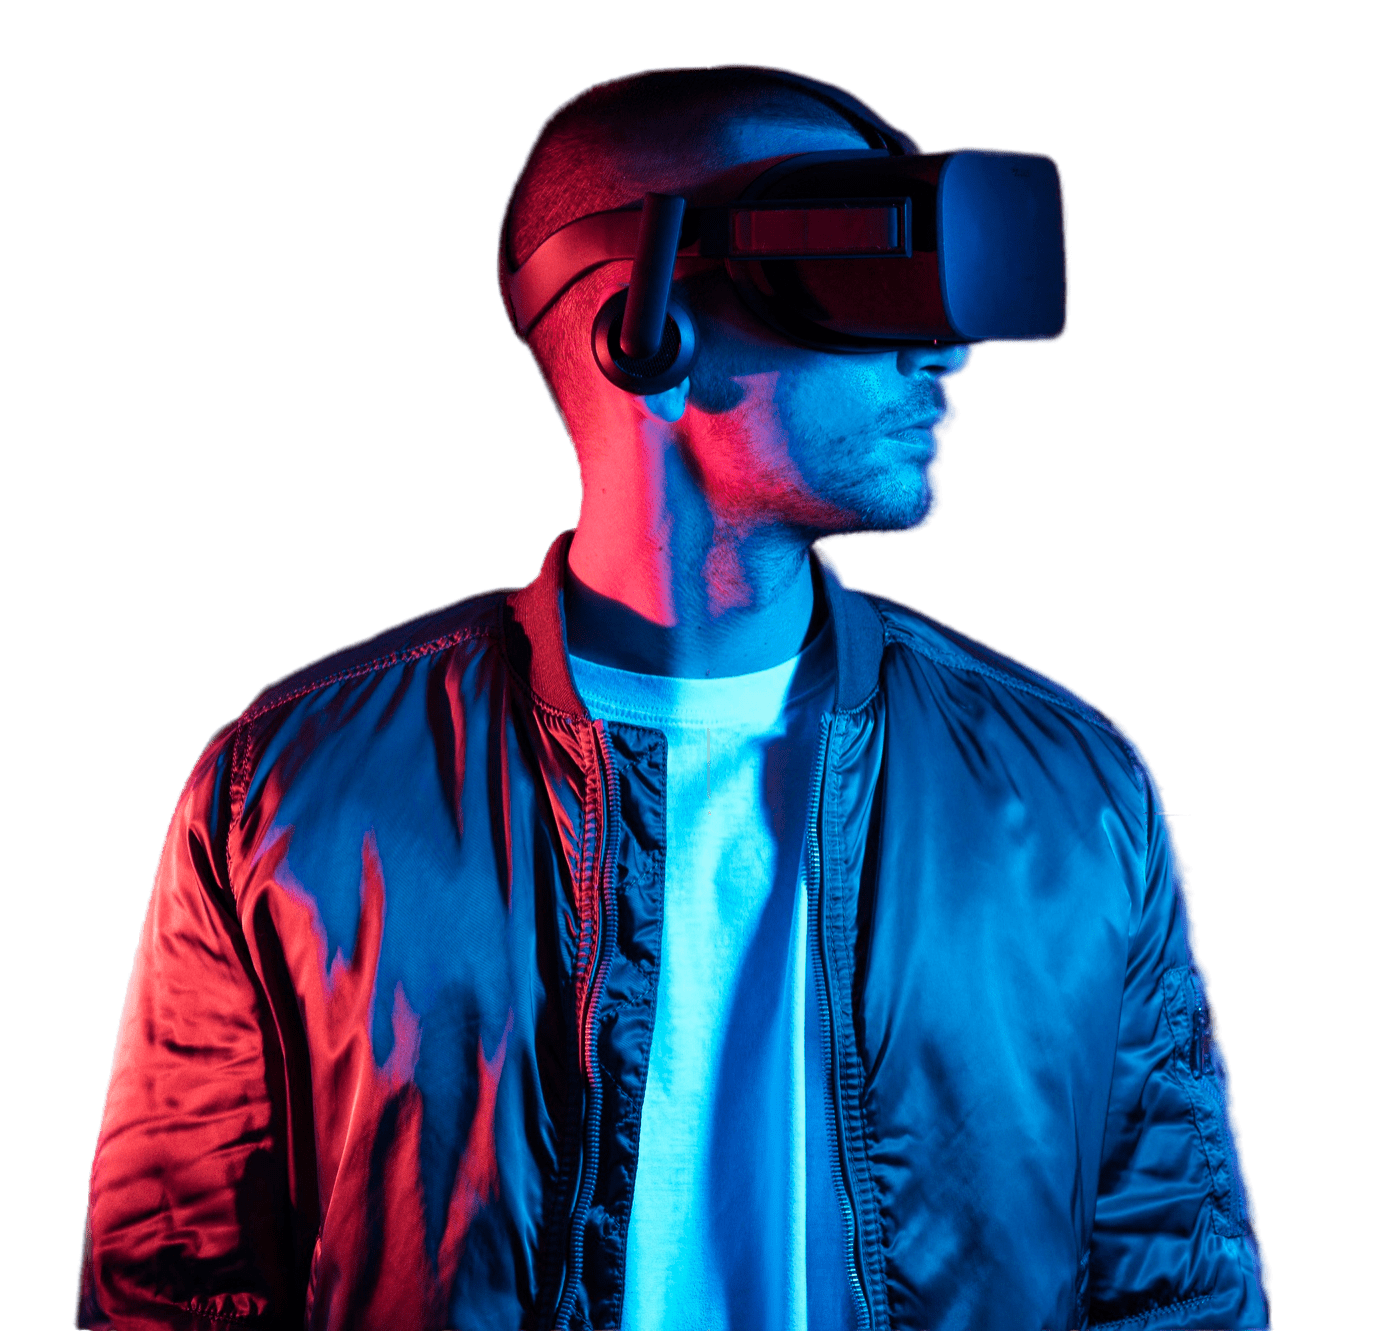
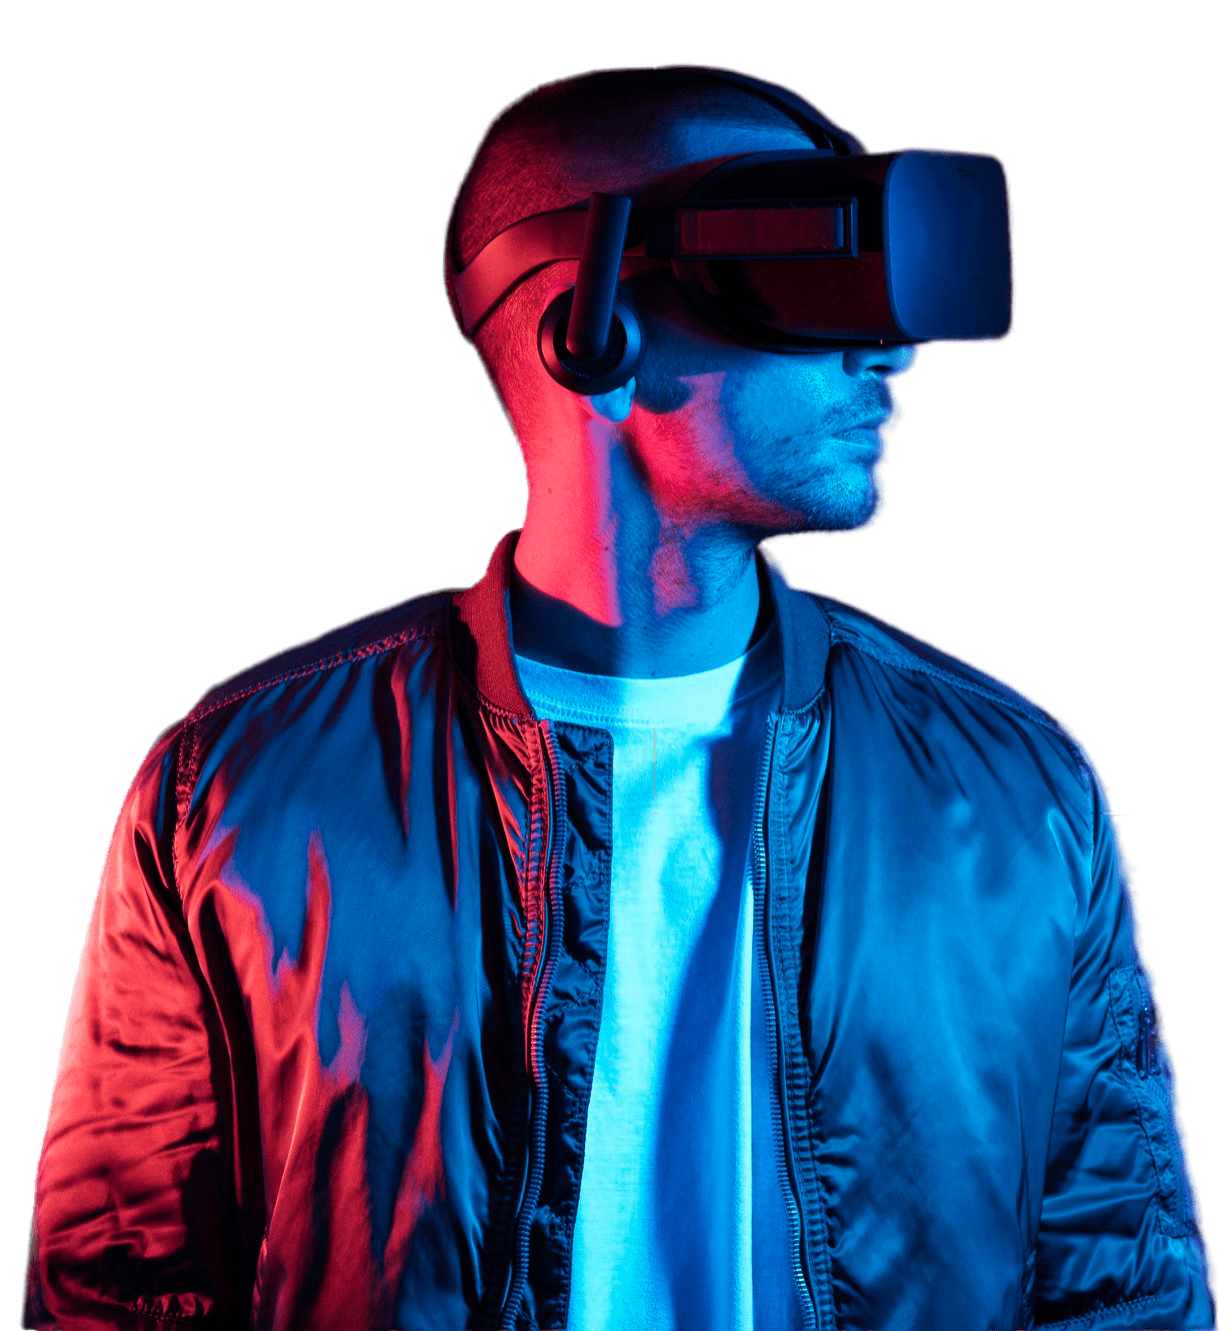
finished project

diff --git a/src/components/Depositions/StyleDepositions.ts b/src/components/Depositions/StyleDepositions.ts
@@ -3,7 +3,7 @@ import { styled } from "styled-components";
 export const StyleDepositions = styled.section`
     display: flex;
     width: 100%;
-    min-height: 110vh;
+    min-height: 100vh;
     align-items: center;
     justify-content: space-between;
     padding: 1rem 5%;
@@ -19,7 +19,7 @@ export const StyleDepositions = styled.section`
 
     .img {
         width: 500px;
-        /* height: 500px; */
+        height: 500px;
         background: ${({ theme }) => theme.colors.primary};
         display: flex;
         align-items: end;
@@ -34,8 +34,6 @@ export const StyleDepositions = styled.section`
 
     @media (max-width: 1060px) {
         .content {
-            width: 500px;
-
             h2 {
                 font-size: 60px;
                 line-height: 60px;
@@ -60,17 +58,17 @@ export const StyleDepositions = styled.section`
             width: 100%;
 
             h2 {
-                font-size: 60px;
                 line-height: 70px;
             }
         }
 
         .img {
             width: 100%;
+            height: auto;
 
             img {
                 border-radius: 0;
-                width: 350px;
+                width: 315px;
             }
         }
     }
@@ -85,8 +83,8 @@ export const StyleDepositions = styled.section`
 
         .img {
             img {
-                /* border-radius: 2.4rem; */
-                width: 210px;
+                /* margin-bottom: 3px; */
+                width: 183px;
             }
         }
     }

diff --git a/src/components/Depositions/Carousel/SlideList/SlideList.tsx b/src/components/Depositions/Carousel/SlideList/SlideList.tsx
@@ -1,0 +1,30 @@
+import { StyleParagraph } from "../../../Paragraph/StyleParagraph";
+import { StyleTitle } from "../../../Title/StyleTitle";
+import { SlideData } from "../SlideData/SlideData";
+import { Swiper, SwiperSlide } from 'swiper/react';
+import 'swiper/css';
+
+export default function SlideList() {
+    return (
+        <>
+            <Swiper
+                spaceBetween={100}
+                slidesPerView={1}
+            >
+                {SlideData.map((item, index) => (
+                    <SwiperSlide key={index}>
+                        <li>
+                            <StyleParagraph fontSize="sm">{item.comment}</StyleParagraph>
+                            <div>
+                                <StyleTitle tag="h3" fontSize="md">
+                                    <strong>{item.name}</strong>
+                                </StyleTitle>
+                                <StyleParagraph fontSize="sm">{item.local}</StyleParagraph>
+                            </div>
+                        </li>
+                    </SwiperSlide>
+                ))}
+            </Swiper>
+        </>
+    )
+}

diff --git a/src/components/Commitment/Questions/AccordionItem/AccordionItem.tsx b/src/components/Commitment/Questions/AccordionItem/AccordionItem.tsx
@@ -1,20 +1,16 @@
-import { useState } from 'react';
-import { DataQuestions } from '../DataQuestions/DataQuestions';
-import { StyleAccordionItem } from './StyleAccordionItem';
-import { StyleTitle } from '../../../Title/StyleTitle';
-import { StyleParagraph } from '../../../Paragraph/StyleParagraph';
+import { useState } from 'react'
+import { DataQuestions } from '../DataQuestions/DataQuestions'
+import { StyleAccordionItem } from './StyleAccordionItem'
+import { StyleTitle } from '../../../Title/StyleTitle'
+import { StyleParagraph } from '../../../Paragraph/StyleParagraph'
 import { BiSolidUpArrow, BiSolidDownArrow } from "react-icons/bi"
 
 export default function AccordionItem() {
-    const [openIndex, setOpenIndex] = useState(null);
+    const [openIndex, setOpenIndex] = useState(null)
 
-    const handleItemClick = (index) => {
-        if (openIndex === index) {
-            setOpenIndex(null);
-        } else {
-            setOpenIndex(index);
-        }
-    };
+    const handleItemClick = (index: number) => {
+        setOpenIndex(openIndex === index ? null : index)
+    }    
 
     return (
         <>

diff --git a/src/components/Discover/DataList.ts/DataList.tsx b/src/components/Discover/DataList.ts/DataList.tsx
@@ -1,0 +1,46 @@
+import { LuHeartHandshake } from "react-icons/lu"
+import { FaListAlt } from "react-icons/fa"
+import { FaPaintBrush } from "react-icons/fa"
+import { BsPeopleFill, BsFillTicketFill, BsJournalText } from "react-icons/bs"
+import { MdBusinessCenter } from "react-icons/md"
+import { BiBarChartSquare } from "react-icons/bi"
+
+interface iDataItem {
+    icon: JSX.Element
+    title: string
+}
+
+export const DataList: iDataItem[] = [
+    {
+        icon: <BiBarChartSquare />,
+        title: "VR For Commercial"
+    },
+    {
+        icon: <BsPeopleFill />,
+        title: "VR For Social"
+    },
+    {
+        icon: <BsJournalText />,
+        title: "VR For Games"
+    },
+    {
+        icon: <FaListAlt />,
+        title: "VR For Education"
+    },
+    {
+        icon: <LuHeartHandshake />,
+        title: "VR For Medical"
+    },
+    {
+        icon: <BsFillTicketFill />,
+        title: "VR For Entertainment"
+    },
+    {
+        icon: <MdBusinessCenter />,
+        title: "VR For Business"
+    },
+    {
+        icon: <FaPaintBrush />,
+        title: "VR For Art"
+    }
+]

diff --git a/src/components/Depositions/Carousel/SlideData/SlideData.ts b/src/components/Depositions/Carousel/SlideData/SlideData.ts
@@ -1,0 +1,23 @@
+export interface iSlideData {
+    name: string
+    comment: string
+    local: string
+}
+
+export const SlideData: iSlideData[] = [
+    {
+        name: "Steve John Dash",
+        comment: "Our school is greatly helped by VR services for our schools, especially after the pandemic, online school activities are very helpful for us to perform practical tasks.",
+        local: "School Principal"
+    },
+    {
+        name: "Sophie Martin",
+        comment: "I've been amazed by the impact of VR in education. It's truly revolutionizing the way we learn and engage with complex concepts.",
+        local: "Education Enthusiast"
+    },
+    {
+        name: "Hiroshi Tanaka",
+        comment: "As a teacher, I've found VR to be an invaluable tool for making abstract topics come to life in the classroom. Students are more engaged than ever.",
+        local: "University Professor"
+    },
+]

diff --git a/src/components/Depositions/Depositions.tsx b/src/components/Depositions/Depositions.tsx
@@ -1,5 +1,6 @@
 import { StyleParagraph } from "../Paragraph/StyleParagraph";
 import { StyleTitle } from "../Title/StyleTitle";
+import SlideCard from "./Carousel/SlideCard/SlideCard";
 import { StyleDepositions } from "./StyleDepositions";
 
 export default function Depositions() {
@@ -14,9 +15,7 @@ export default function Depositions() {
                 <StyleParagraph fontSize="sm">
                     Fin that clients who already trust us, we always give the best to our clients
                 </StyleParagraph>
-                <div>
-                    oi
-                </div>
+                <SlideCard />
             </div>
         </StyleDepositions>
     )

diff --git a/src/components/BuildingWorld/StyleBuildingWorld.ts b/src/components/BuildingWorld/StyleBuildingWorld.ts
@@ -23,12 +23,12 @@ export const StyleBuildingWorld = styled.section`
         background: ${({ theme }) => theme.colors.primary};
         display: flex;
         align-items: end;
-        justify-content: center;
+        justify-content: end;
         border-top-left-radius: 3rem;
         border-bottom-left-radius: 3rem;
         
         img {
-            margin-right: 50px;
+            margin-right: 0px;
             width: 550px;
         }
     }
@@ -70,7 +70,7 @@ export const StyleBuildingWorld = styled.section`
 
         .img {
             width: 100%;
-            height: 450px;
+            height: auto;
 
             img {
                 width: 550px;

diff --git a/src/components/Commitment/Questions/DataQuestions/DataQuestions.ts b/src/components/Commitment/Questions/DataQuestions/DataQuestions.ts
@@ -1,4 +1,9 @@
-export const DataQuestions = [
+interface iDataQuestion {
+    question: string
+    response: string
+}
+
+export const DataQuestions: iDataQuestion[] = [
     {
         question: "Immersive Learning System",
         response: "Our immersive learning system incorporates cutting-edge technologies to create engaging and interactive educational experiences",
@@ -11,4 +16,4 @@ export const DataQuestions = [
         question: "Responsible Innovation",
         response: "We prioritize responsible innovation by carefully considering the ethical and societal implications of our products and collaborating with experts in the field",
     },
-];
+]

diff --git a/src/components/Depositions/Carousel/SlideCard/StyleSlideCard.ts b/src/components/Depositions/Carousel/SlideCard/StyleSlideCard.ts
@@ -1,0 +1,24 @@
+import { styled } from "styled-components";
+
+export const StyleSlideCard = styled.ul`
+    border: 1px solid ${({ theme }) => theme.colors.primary};
+    padding: 1rem;
+    border-radius: 1rem;
+    display: flex;
+    gap: 1rem;
+    
+    .swiper {
+        width: 100%;
+
+        li {
+            width: 100%;
+            display: flex;
+            flex-direction: column;
+            gap: 1rem;
+            
+            h3 {
+                line-height: initial;
+            }
+        }
+    }
+`

diff --git a/src/components/BuildingWorld/DataList/DataList.tsx b/src/components/BuildingWorld/DataList/DataList.tsx
@@ -1,0 +1,23 @@
+import { AiFillEye } from "react-icons/ai";
+import { AiFillStar } from "react-icons/ai";
+import { MdDevices } from "react-icons/md"
+
+interface iDataItem {
+    icon: JSX.Element;
+    title: string;
+}
+
+export const DataList: iDataItem[] = [
+    {
+        icon: <AiFillEye />,
+        title: "Virtual Reality"
+    },
+    {
+        icon: <AiFillStar />,
+        title: "Augmented Reality"
+    },
+    {
+        icon: <MdDevices />,
+        title: "Smart Device"
+    },
+];

diff --git a/src/components/Home/StyleHome.ts b/src/components/Home/StyleHome.ts
@@ -75,7 +75,7 @@ export const StyleHome = styled.main`
 
         .img {
             width: 100%;
-            height: 450px;
+            height: auto;
 
             img {
                 width: 550px;
@@ -96,8 +96,6 @@ export const StyleHome = styled.main`
         }
 
         .img {
-            height: 250px;
-
             img {
                 width: 265px;
                 margin-right: 0px;

diff --git a/src/components/Discover/List/StyleList.ts b/src/components/Discover/List/StyleList.ts
@@ -20,6 +20,11 @@ export const StyleList = styled.li`
         background: ${({ theme }) => theme.colors.primary};
         width: 50px;
         height: 50px;
+
+        svg {
+            color: ${({ theme }) => theme.colors.secondary};
+            font-size: 30px;
+        }
     }
 
     &:hover {
